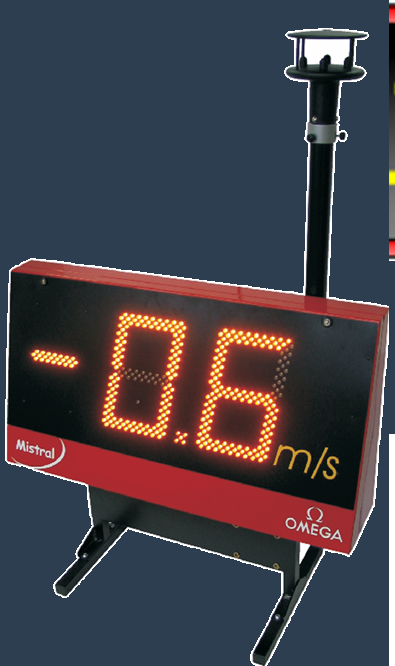
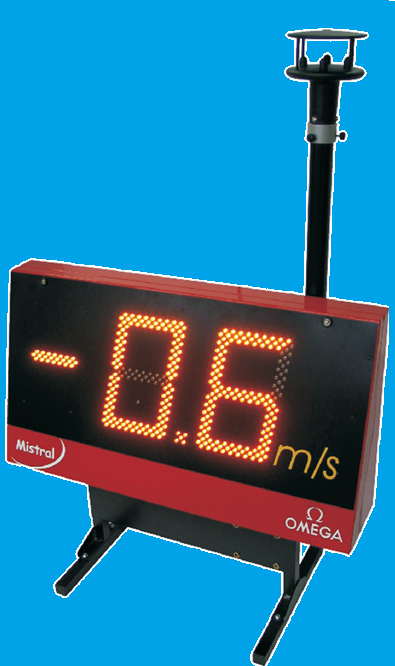
Adjust Splashscreen UI nlyu

diff --git a/SwissTimingDisplay/SplashWindow.xaml b/SwissTimingDisplay/SplashWindow.xaml
@@ -7,7 +7,7 @@
         WindowStartupLocation="CenterScreen"
         ResizeMode="NoResize"
         WindowStyle="None"
-        Background="#2C3E50">
+        Background="#00A2E8">
     <Grid>
         <StackPanel VerticalAlignment="Center" HorizontalAlignment="Center">
 
@@ -26,25 +26,32 @@
                        Height="40" Stretch="Uniform" 
                        VerticalAlignment="Center" Margin="0,10,0,10" 
                        Grid.Row="0" Grid.Column="1"/>
+                
 
 
                 <!-- Left image -->
                 <Image Source="pack://application:,,,/docs/gemini6display.png"
-           Height="100"
-           Stretch="Uniform"
-           VerticalAlignment="Center"
-           HorizontalAlignment="Left"
-           Grid.Column="0" Grid.Row="1"/>
+                       Height="100"
+                       Stretch="Uniform"
+                       VerticalAlignment="Center"
+                       HorizontalAlignment="Left"
+                       Grid.Column="0" Grid.Row="1"/>
+
+                <!-- Centre Image -->
+                <Image Source="pack://application:,,,/docs/siriccoWindGauge2.png" 
+                       Height="100" Stretch="Uniform" 
+                       VerticalAlignment="Center" Margin="0" 
+                       Grid.Row="1" Grid.Column="1"/>
 
                 <!-- Right image -->
                 <Image Source="pack://application:,,,/docs/mistralwindgauge.png"
-           Height="120"
-           Stretch="Uniform"
-           VerticalAlignment="Bottom"
-           HorizontalAlignment="Right"
-                       Grid.Row="0"
-                       Grid.RowSpan="2"
-           Grid.Column="2"/>
+                       Height="120"
+                       Stretch="Uniform"
+                       VerticalAlignment="Bottom"
+                       HorizontalAlignment="Right"
+                        Grid.Row="0"
+                        Grid.RowSpan="2"
+                       Grid.Column="2"/>
             </Grid>
 
 
@@ -57,68 +64,76 @@
             <StackPanel Orientation="Horizontal" HorizontalAlignment="Center">
                 <Button Name="DisplayButton"
                         Content="Display"
-                        Width="60"
+
+                        Width="100"
                         Height="45"
                         FontSize="16"
-                        Margin="0,0,10,0"
-                        Background="#3498DB"
+                        Margin="5,0,0,0"
+                        Background="Red"
                         Foreground="White"
                         BorderThickness="0"
                         Cursor="Hand"
                         Click="DisplayButton_Click"/>
                 
-                <Button Name="WindGaugeButton"
-                        Content="Mistral Wind Gauge"
+                <Button Name="SiriccoButton"
+                        Content="Siricco Wind Gauge"
+
                         Width="140"
                         Height="45"
                         FontSize="16"
-                        Margin="0,0,20,0"
+                        Margin="20,0,10,0"
                         Background="Green"
                         Foreground="White"
                         BorderThickness="0"
                         Cursor="Hand"
-                        Click="WindGaugeButton_Click"/>
-                <Button Name="SiriccoButton"
-                        Content="Siricco Wind Gauge"
-                        Width="140"
+                        Click="SiriccoWindGaugeButton_Click"/>
+                
+                <Button Name="WindGaugeButton"
+                        Content="Mistral Wind Gauge"
+                        Width="145"
                         Height="45"
                         FontSize="16"
-                        Margin="0,0,20,0"
-                        Background="Brown"
+                        Margin="20,0,5,0"
+                        Background="Purple"
                         Foreground="White"
                         BorderThickness="0"
                         Cursor="Hand"
-                        Click="SiriccoWindGaugeButton_Click"/>
-                <Button Name="ExitButton"
-                        Content="Exit"
-                        Width="60"
-                        Height="30"
-                        FontSize="16"
-                        FontStyle="Italic"
-                        Background="#E74C3C"
-                        Foreground="White"
-                        BorderThickness="0"
-                        Cursor="Hand"
-                        Click="ExitButton_Click"/>
+                        Click="WindGaugeButton_Click"/>
+
+            
             </StackPanel>
 
-            <TextBlock Text="Disclaimer: This software is for demostration and testing purposes only and is not provided by Swiss Timing.&#x0A;Swiss Timing Display and Wind Gauge Transmission Protocols as referenced are used though."
-           FontSize="12"
-           FontStyle="Italic"
-           Foreground="#BDC3C7"
-           TextWrapping="Wrap"
-                       TextAlignment="Justify"
-           HorizontalAlignment="Center"
-           Margin="0,10,0,20" Width="414" RenderTransformOrigin="0.5,0.5">
-                <TextBlock.RenderTransform>
-                    <TransformGroup>
-                        <ScaleTransform/>
-                        <SkewTransform AngleX="-1.315"/>
-                        <RotateTransform/>
-                        <TranslateTransform X="-0.977"/>
-                    </TransformGroup>
-                </TextBlock.RenderTransform>
-            </TextBlock>
+            <StackPanel Orientation="Horizontal">
+                <Button Name="ExitButton"
+                    Content="Exit"
+                    Width="100"
+                    Height="45"
+                    FontSize="16"
+                    FontStyle="Italic"
+                        Margin="5,0,5,0"
+                    Background="brown"
+                    Foreground="White"
+                    BorderThickness="0"
+                    Cursor="Hand"
+                    Click="ExitButton_Click"/>
+                <TextBlock Text="Disclaimer: This software is for demostration and testing&#x0A;purposes only and is not provided by Swiss Timing.&#x0A;Swiss Timing Display and Wind Gauge Transmission&#x0A;Protocols as referenced are used though."
+               FontSize="12"
+               FontStyle="Italic"
+               Foreground="#BDC3C7"
+               TextWrapping="Wrap"
+                           TextAlignment="Justify"
+               HorizontalAlignment="Center"
+               Margin="20,10,5,20" Width="335"  RenderTransformOrigin="0.5,0.5">
+                    <TextBlock.RenderTransform>
+                        <TransformGroup>
+                            <ScaleTransform/>
+                            <SkewTransform AngleX="-1.315"/>
+                            <RotateTransform/>
+                            <TranslateTransform X="-0.977"/>
+                        </TransformGroup>
+                    </TextBlock.RenderTransform>
+                </TextBlock>
+            </StackPanel>
 
         </StackPanel>
         